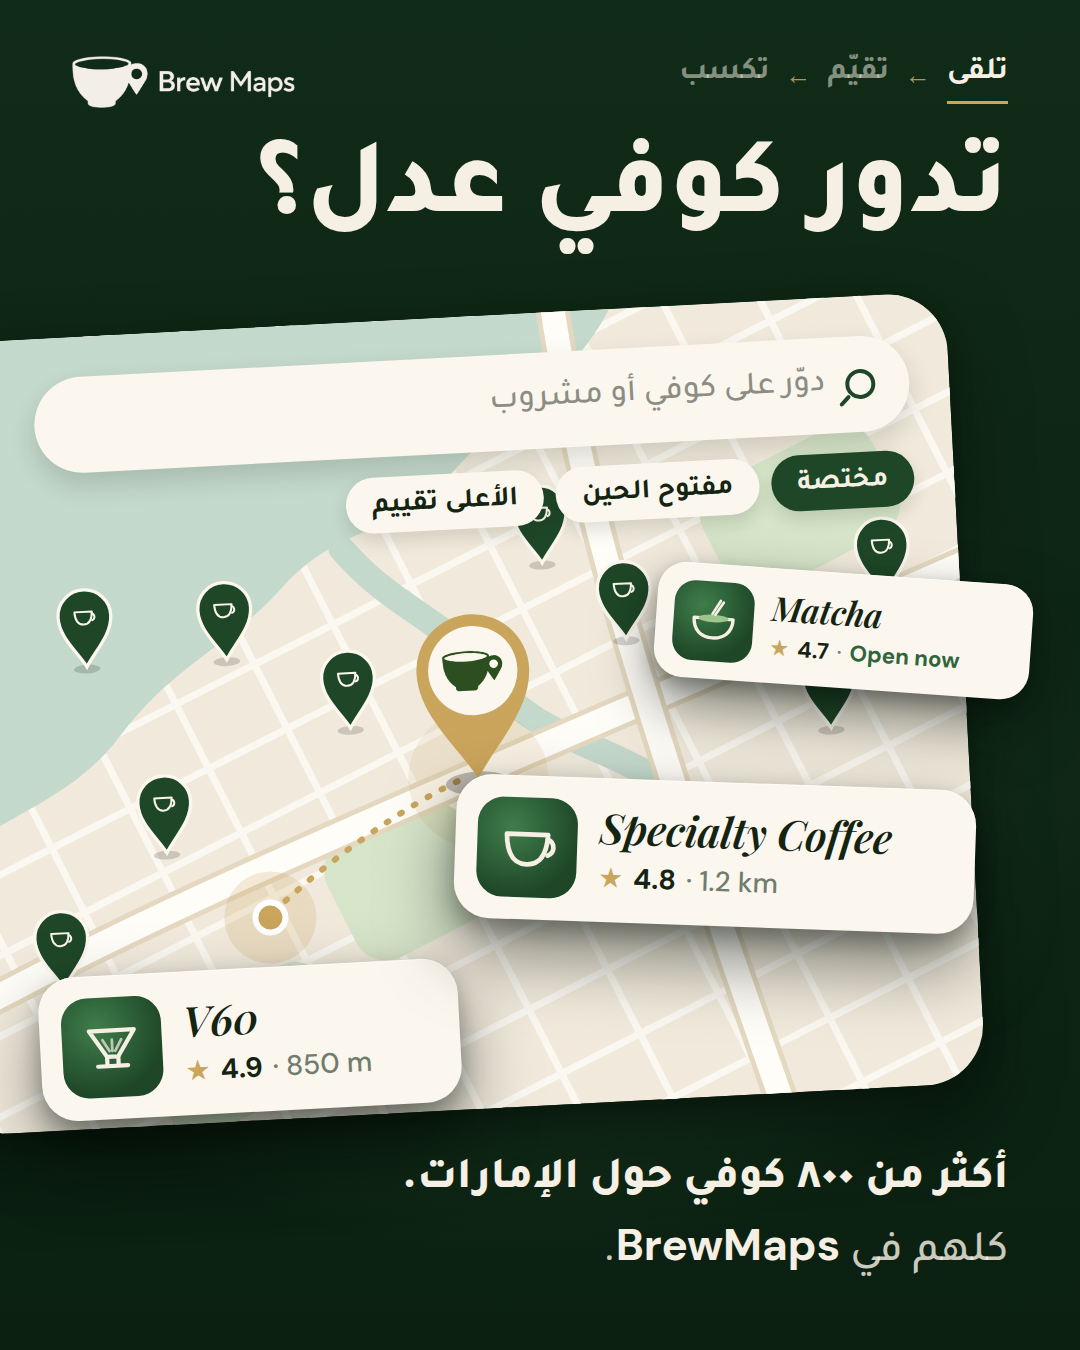
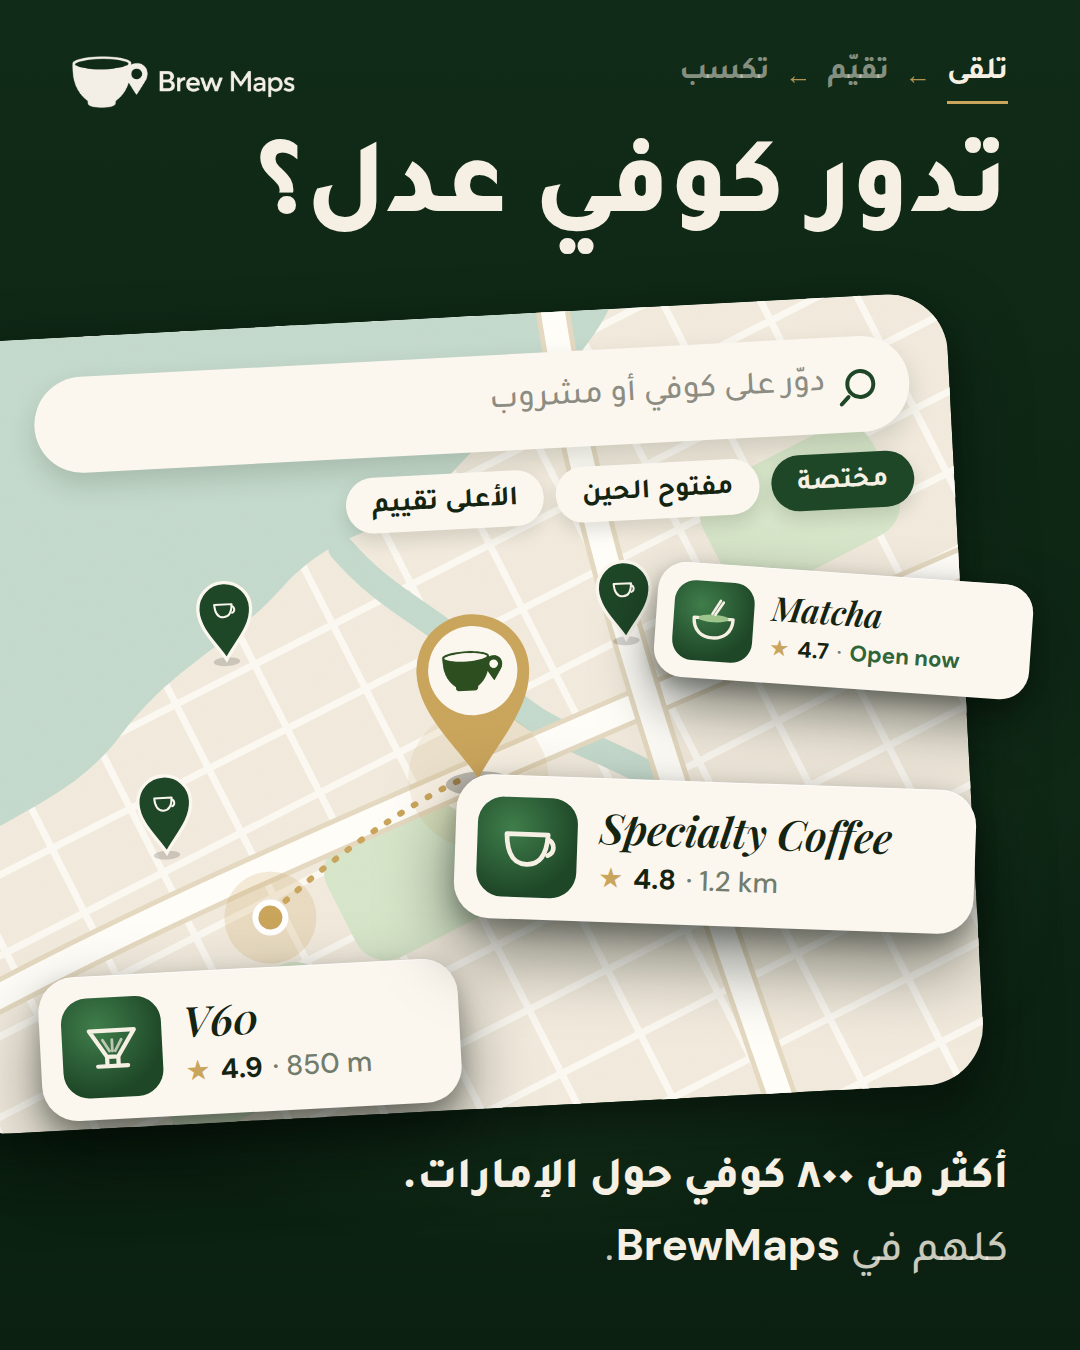
Find · Rate · Earn carousel: fewer map pins on slide 1
Claude-Session: https://claude.ai/code/session_01UCKVHF8Bj15Neb29ir5cAN

diff --git a/marketing/posts/find-rate-earn-carousel/carousel.html b/marketing/posts/find-rate-earn-carousel/carousel.html
@@ -212,7 +212,7 @@ const pin = (x, y, s, fill) => { const g = el(M, 'g', { transform:`translate(${x
   el(g, 'ellipse', { cy:2, rx:12, ry:4, fill:'#000', opacity:.16 });
   el(g, 'path', { d:'M0 0 C-8 -14 -24 -28 -24 -46 A24 24 0 1 1 24 -46 C24 -28 8 -14 0 0Z', fill, stroke:'#FBF7EF', 'stroke-width':3 });
   const c = el(g, 'g', { transform:'translate(-1 -45) scale(.36)' }); c.innerHTML = CUP('#FBF7EF'); };
-[[300, 330], [420, 405], [230, 520], [700, 330], [900, 430], [780, 560], [120, 650], [960, 300], [160, 330], [620, 250]].forEach(([x, y]) => pin(x, y, 1.1, '#1D4526'));
+[[300, 330], [230, 520], [700, 330]].forEach(([x, y]) => pin(x, y, 1.1, '#1D4526'));
 // you are here, and the way to the one worth going to
 el(M, 'circle', { cx:330, cy:590, r:46, fill:'#C9A35A', opacity:.22 });
 el(M, 'circle', { cx:330, cy:590, r:15, fill:'#C9A35A', stroke:'#fff', 'stroke-width':6 });
